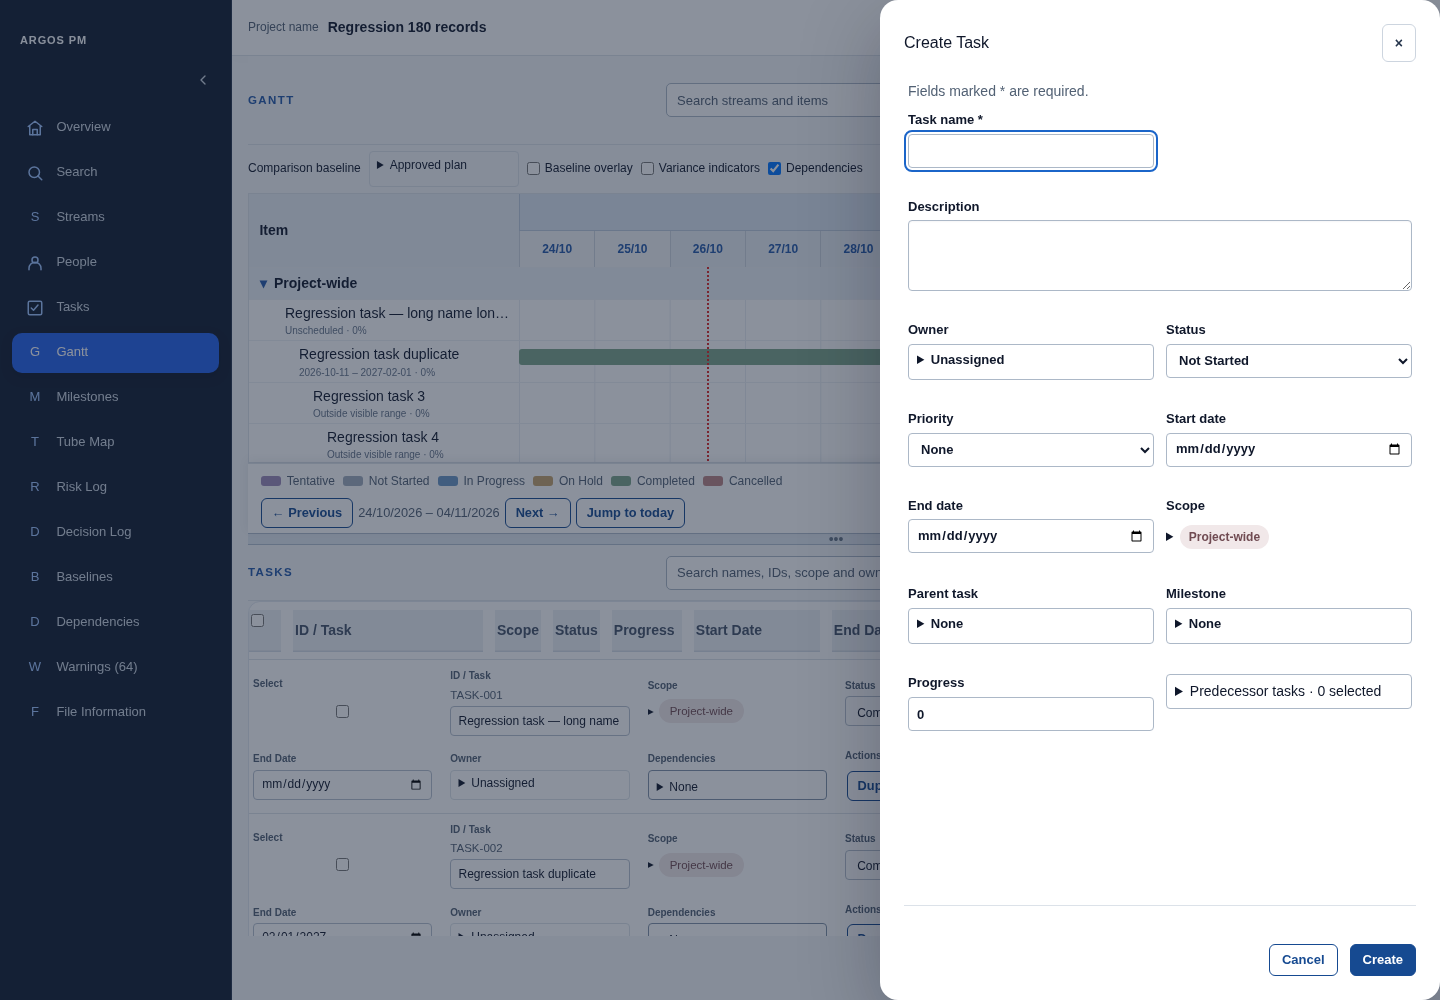
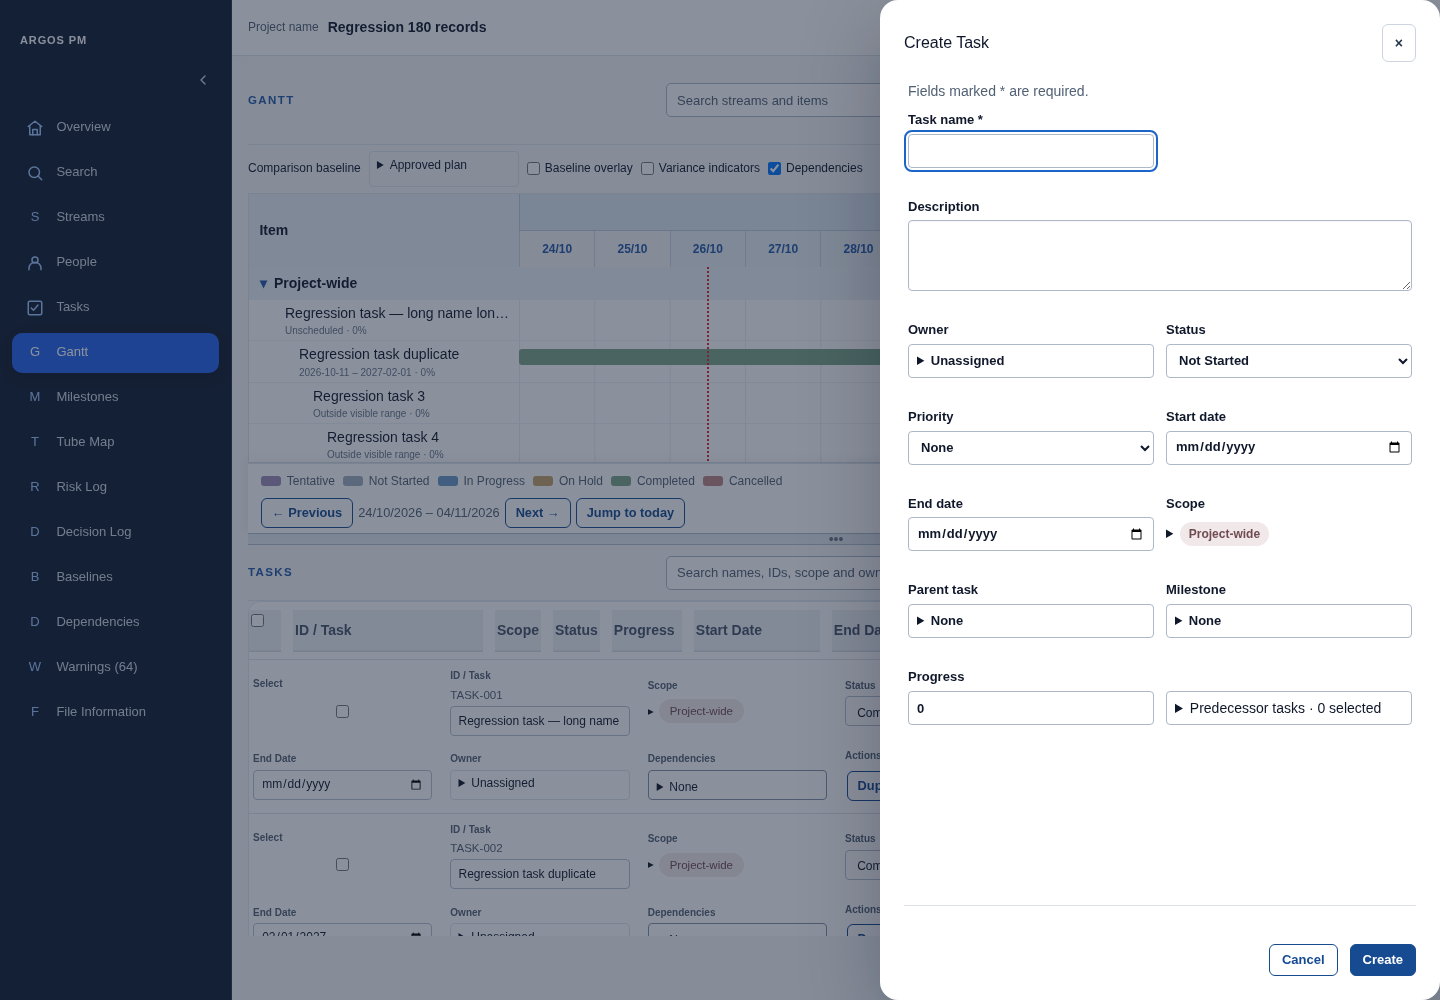
fix(tasks): align creation panel fields and picker boxes

diff --git a/src/features/shared/entity-creation-panel.tsx b/src/features/shared/entity-creation-panel.tsx
@@ -31,7 +31,7 @@ export function EntityCreationPanel({kind,store,onClose,onCreated}:{kind:Creatio
  const submit=()=>{const result=prepareCreation(kind,draft,store.getState());setErrors(result.errors);if(!result.command){const key=Object.keys(result.errors)[0];if(key==='actions'){const index=draft.actions.findIndex(a=>!a.description.trim()||(a.dueDate&&!isCalendarDate(a.dueDate)));document.getElementById(`${id('actions')}-${index}${draft.actions[index]?.description.trim()?'-date':''}`)?.focus();}else document.getElementById(id(key))?.focus();return;}if(store.execute(result.command)){onCreated();onClose();}else setErrors({_form:'Unable to create. Review the fields and relationships.'});};
  return <><Dialog title={`Create ${creationNames[kind]}`} variant="creation" initialFocusId={creationIds[kind]} onClose={dismiss}>
   <form data-create-draft="true" data-dirty={creationIsDirty(kind,draft)} noValidate onSubmit={e=>{e.preventDefault();submit();}} onKeyDown={e=>{if(e.key==='Enter'&&e.target instanceof HTMLInputElement&&!e.target.closest('.searchable-option-list')&&e.target.type!=='checkbox'&&e.target.type!=='radio'){e.preventDefault();e.currentTarget.requestSubmit();}}}>
-   <div className="creation-fields"><p className="muted wide-field">Fields marked * are required.</p>
+   <div className={`creation-fields${kind==='task'?' creation-fields--task':''}`}><p className="muted wide-field">Fields marked * are required.</p>
     {text('name',creationLabels[kind],{required:true})}
     {(kind==='milestone'||kind==='decision')&&text('date',kind==='decision'?'Decision date':'Date',{required:true,date:true})}
     {kind==='person'?<>{text('role','Role')}{text('notes','Notes',{multiline:true})}</>:<>

diff --git a/e2e/layout/extended.spec.ts b/e2e/layout/extended.spec.ts
@@ -39,6 +39,10 @@ for(const width of [1024,1440,1920])test(`Extended Add Task exactly matches stan
  await mode.getByRole('button',{name:'Simple',exact:true}).click();await expect(page.locator('.gantt-tasks-pane')).toBeHidden();await extended(page);await expect(ganttSearch).toHaveValue('Regression');await expect(taskSearch).toHaveValue('TASK-001');await ganttSearch.fill('');await taskSearch.fill('');
  await page.locator('.gantt-tasks-pane').getByRole('button',{name:'Add Task',exact:true}).click();const panel=page.getByRole('dialog',{name:'Create Task',exact:true});await expect(panel).toBeVisible();
  const actual=await panelMetrics(page);expect(actual).toEqual(standalone);
+ const pairs=[['Owner','Status'],['Priority','Start date'],['End date','Scope'],['Parent task','Milestone'],['Progress','Predecessor tasks']] as const;
+ const box=async(label:string)=>panel.locator('input,select,summary').filter({visible:true}).evaluateAll((controls,name)=>{const control=controls.find(e=>e.getAttribute('aria-label')===name||e.textContent?.startsWith(`${name} ·`));if(!control)throw new Error(`Missing ${name}`);const r=control.getBoundingClientRect();return {x:r.x,y:r.y,width:r.width,height:r.height};},label);
+ for(const [left,right] of pairs){const a=await box(left),b=await box(right);expect(b.y).toBeCloseTo(a.y,1);expect(b.height).toBe(a.height);expect(b.width).toBe(a.width);}
+
  expect(actual.panel).toMatchObject({x:width-560,y:0,width:560,height:1000});expect(actual.backdrop).toEqual({x:0,y:0,width,height:1000});
  await expect(panel.getByLabel('Task name',{exact:true})).toBeFocused();
  await page.screenshot({path:testInfo.outputPath(`${width}-extended-add-task.png`)});

diff --git a/src/app/globals.css b/src/app/globals.css
@@ -1121,3 +1121,9 @@ td:has(.scope-pill) .predictive-select > summary { min-width:0; }
   content:none;
   height:0;
 }
+
+/* Task creation: align picker boxes with the adjacent labelled input rows. */
+.creation-fields--task>.creation-relationship { display:flex; flex-direction:column; justify-content:flex-end; gap:4px; min-width:0; }
+.creation-fields--task>.creation-selector>details>summary,
+.creation-fields--task>.creation-relationship>details>summary { box-sizing:border-box; height:34px; line-height:20px; }
+.creation-fields--task>.creation-selector>details:has(>summary .scope-pill)>summary { padding-block:5px; }

diff --git a/docs/V1.6_APPROVED_DESIGN_ALIGNMENT.md b/docs/V1.6_APPROVED_DESIGN_ALIGNMENT.md
@@ -23,13 +23,13 @@ Authority: PROJECT_REQUIREMENTS.md, V1.6_IMPLEMENTATION.md and the behavioural d
 | Tokens/layout/standalone Tasks | Existing tokens and scoped Extended CSS; TasksModule and creation panel reused. | Preserve application source. No cosmetic imitation of the mockup. |
 | PMP compatibility / save/load | Existing codec and file service remain authoritative; baseline data lives in PMP, selection/layout are transient. | Revalidate legacy and current saved bytes; no format change needed. |
 
-## Scope decision
+## Initial scope decision
 
 No confirmed product-code discrepancy was found in the unambiguous approved decisions above. This alignment therefore adds explicit preservation evidence and this current reconciliation, rather than making speculative UI changes. The owner confirmed preserving approved inline and quick editing; no full task editing panel is required.
 
 Validation and screenshot evidence will be appended after execution. Native Windows/macOS picker consent and physical disk acceptance cannot be established by Linux browser file adapters. No merge, deploy, tag or release is authorized.
 
-## Executed validation
+## Initial inspection validation
 
 Lockfile dependencies were restored with `npm ci` (initial installed Next/Vitest versions were stale and HeroUI/Playwright were missing). No dependency pins or lockfile changed. The project uses **Vitest**, not Jest; no parallel Jest setup was introduced.
 
@@ -50,3 +50,11 @@ The new test initially measured the search against the outer workspace instead o
 Persistence evidence includes `src/testing/v14-compatibility.test.ts`, PMP codec/file-service/limit cases, full lifecycle legacy open/edit/save/reopen and failure recovery, and Extended canonical-data save/reopen with immutable baseline/audit assertions. No parser, schema, serializer, file service, application component, stylesheet or standalone Tasks behavior changed.
 
 Fresh application screenshots and machine-readable results: [evidence](media/v16-alignment/README.md). Raw execution logs remain under ignored `work/`. Native OS picker consent/physical-machine acceptance remain outstanding. The owner resolved the editing clarification: preserve inline and quick editing. No merge, deployment, tag, publication or release was performed.
+
+## Follow-up: Create Task field alignment
+
+Owner screenshot review identified a confirmed discrepancy: the Predecessor tasks disclosure has no label row, so its box sits above the adjacent Progress input. Predictive selectors and the borderless Scope pill also use different box sizing from date/text/select inputs. Correct the Task creation grid's label/control/error tracks and control heights in the shared Task panel, preserving the same panel in standalone Tasks and Extended. No changes to task table editing or Gantt quick editing are requested.
+
+Implementation: a Task-only creation-fields class sets direct predictive-selector and relationship summaries to the existing 34px input height. The unlabelled Predecessor tasks field now bottom-aligns its control and reserved error row with Progress. Scope remains a borderless pill, vertically centered in its control row. Panel dimensions, field order and other entity forms are unchanged. Existing inline and quick editing remain intact.
+
+Validation on this layout fix: production build, typecheck and lint passed. All **29** selected Playwright cases passed in **59.09s**: creation panels plus Extended layout/history/save/reopen. Exact standalone/Extended panel equality and paired control alignment pass at 1024/1440/1920. These creation tests exercise validation, focus, keyboard submission, dirty-dismiss, save bytes and Undo/Redo; the Extended canonical-store case verifies save/reopen. No domain or persistence code changed, so the successful initial unit/full-lifecycle evidence above was not rerun for this CSS correction. A final three-case check additionally asserts Owner/Status and equal paired box widths: all 3 passed in 7.18s. Current screenshot: [after](media/v16-alignment/extended-add-task.png); retained [before](media/v16-alignment/extended-add-task-before.png).

diff --git a/docs/media/v16-alignment/README.md b/docs/media/v16-alignment/README.md
@@ -1,13 +1,14 @@
 # Approved-design alignment evidence
 
-Captured from the actual application on the alignment branch, using disposable browser PMP file adapters at 1440×1000. These are application evidence, not conceptual mockups. Application source matches main `1e9a35e`; the change adds reconciliation and preservation coverage.
+Captured from the actual application on the alignment branch, using disposable browser PMP file adapters at 1440×1000. These are application evidence, not conceptual mockups. Initial inspection used main `1e9a35e`. The subsequent owner-requested fix aligns Task creation controls in the same standalone/Extended panel; other application surfaces remain unchanged.
 
 - [Extended workspace and unchanged shell](alignment-extended-shell.png)
 - [Collapsed sidebar and centered search](alignment-collapsed-sidebar.png)
 - [Standalone Tasks after leaving Extended](alignment-standalone-tasks.png)
-- [Existing full-height right Add Task panel](extended-add-task.png)
+- [Aligned full-height right Add Task panel — after correction](extended-add-task.png)
+- [Create Task before correction](extended-add-task-before.png)
 - [Extended baseline/variance and shared edits](extended-baselines-and-edits.png)
 - [Enhanced dependency inspection](dependencies.png)
 - [Validation counts/timings and explicit initial failure record](validation.json)
 
-The preservation test compares the complete navigation names/order/icons, vertical positions across collapse, project-header markup/geometry across modes, and standalone Tasks controls/values/geometry/typography before and after Extended. Existing three-width exact creation-panel equivalence and lifecycle coverage remain intact. See [reconciliation](../../V1.6_APPROVED_DESIGN_ALIGNMENT.md) for scope and outstanding clarification.
+The preservation test compares the complete navigation names/order/icons, vertical positions across collapse, project-header markup/geometry across modes, and standalone Tasks controls/values/geometry/typography before and after Extended. Existing three-width exact creation-panel equivalence and lifecycle coverage remain intact. See [reconciliation](../../V1.6_APPROVED_DESIGN_ALIGNMENT.md) for scope, confirmed editing behavior and remaining native OS acceptance.

diff --git a/docs/PROJECT_REQUIREMENTS.md b/docs/PROJECT_REQUIREMENTS.md
@@ -2045,3 +2045,7 @@ New Project Status starts blank and must be explicitly selected; Choose File & C
 - Tube Map uses existing milestone colours in a single-line diamond legend above date navigation and a multi-status filter. Status filtering precedes lane population and combines with search/Hide Empty Streams; Clear all restores unrestricted statuses. Remove extra footer scroll space, preserving the last lane, sticky axis and navigation.
 - Risk Matrix is one expanded-by-default section, with accessible Risk Matrix chevron toggle and session-only remembered state. Context relationship headings and equal-height selectors align across Risk/Decision editors; Decision Streams/Milestones/Tasks/Risks share one desktop line, with existing Project-wide exclusivity. Overview Quick Actions sizes to content independently of Timeline.
 - These controls are presentation/transient state except the explicitly selected Task status. Keep the confirmed search centre, timeline dates/navigation, canonical command history and local-first project-file boundaries. No merge/tag/release/deploy/publish authorised.
+
+## Approved Create Task alignment correction — 26 October 2026
+
+Align adjacent fields and control boxes in the Create Task panel, including predictive selectors, Scope and Predecessor tasks beside Progress. Apply the correction to the shared task creation panel in standalone Tasks and Extended Gantt equally. Preserve panel size/location, field order, existing Scope pill styling, validation/error space and editing behavior. This targeted correction supersedes exact preservation of the prior misaligned creation-control geometry.
